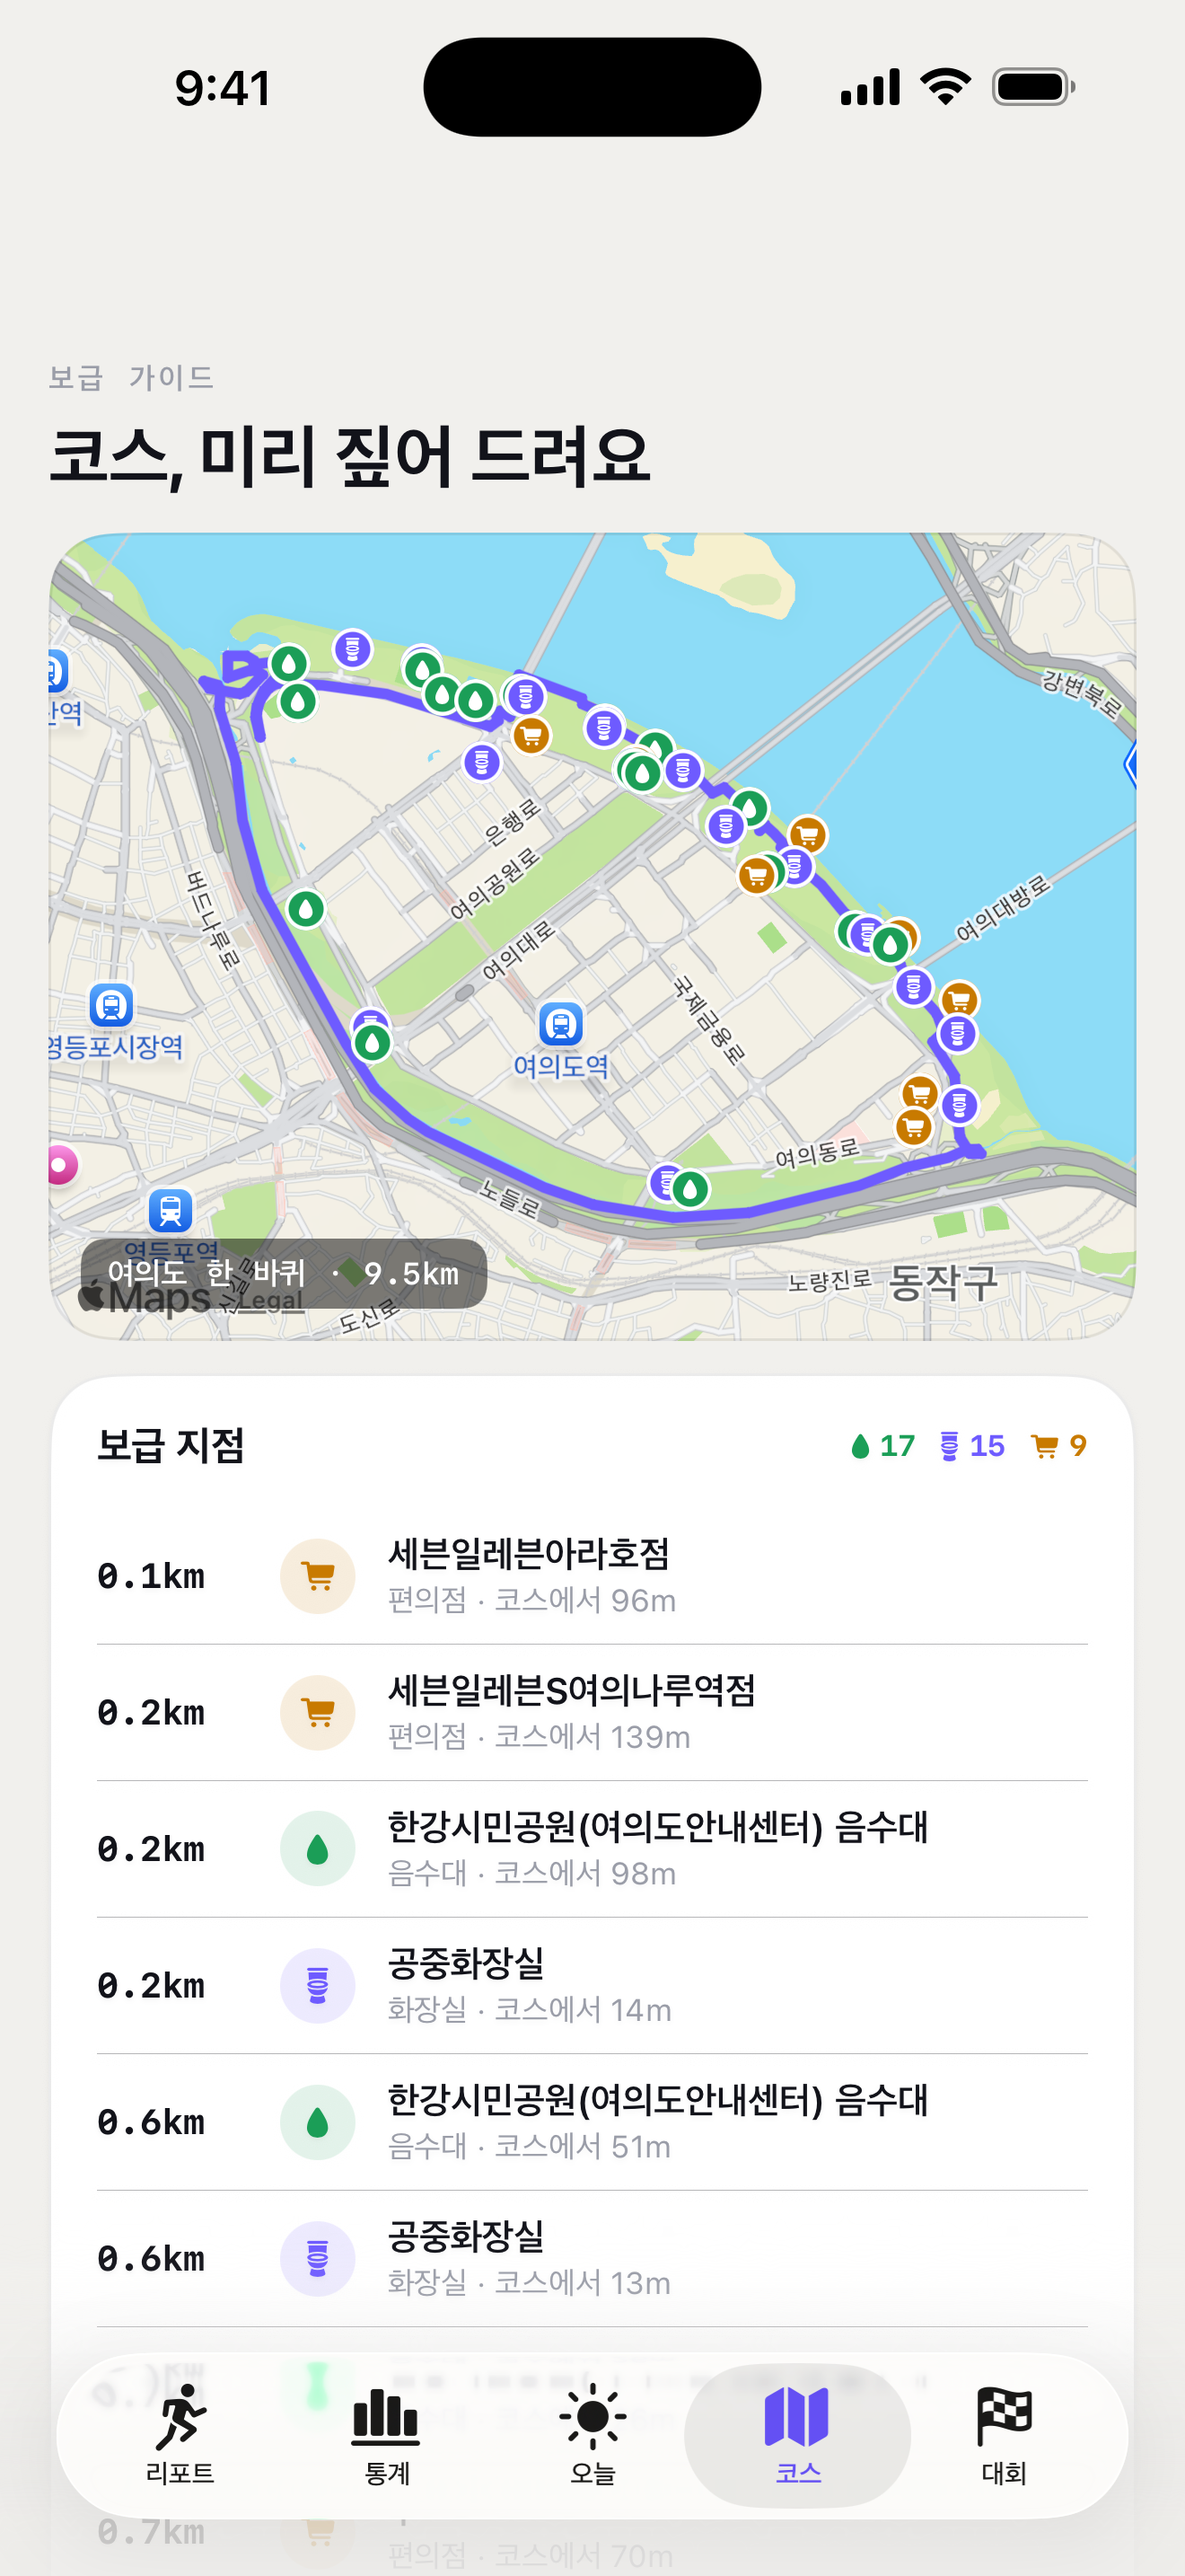
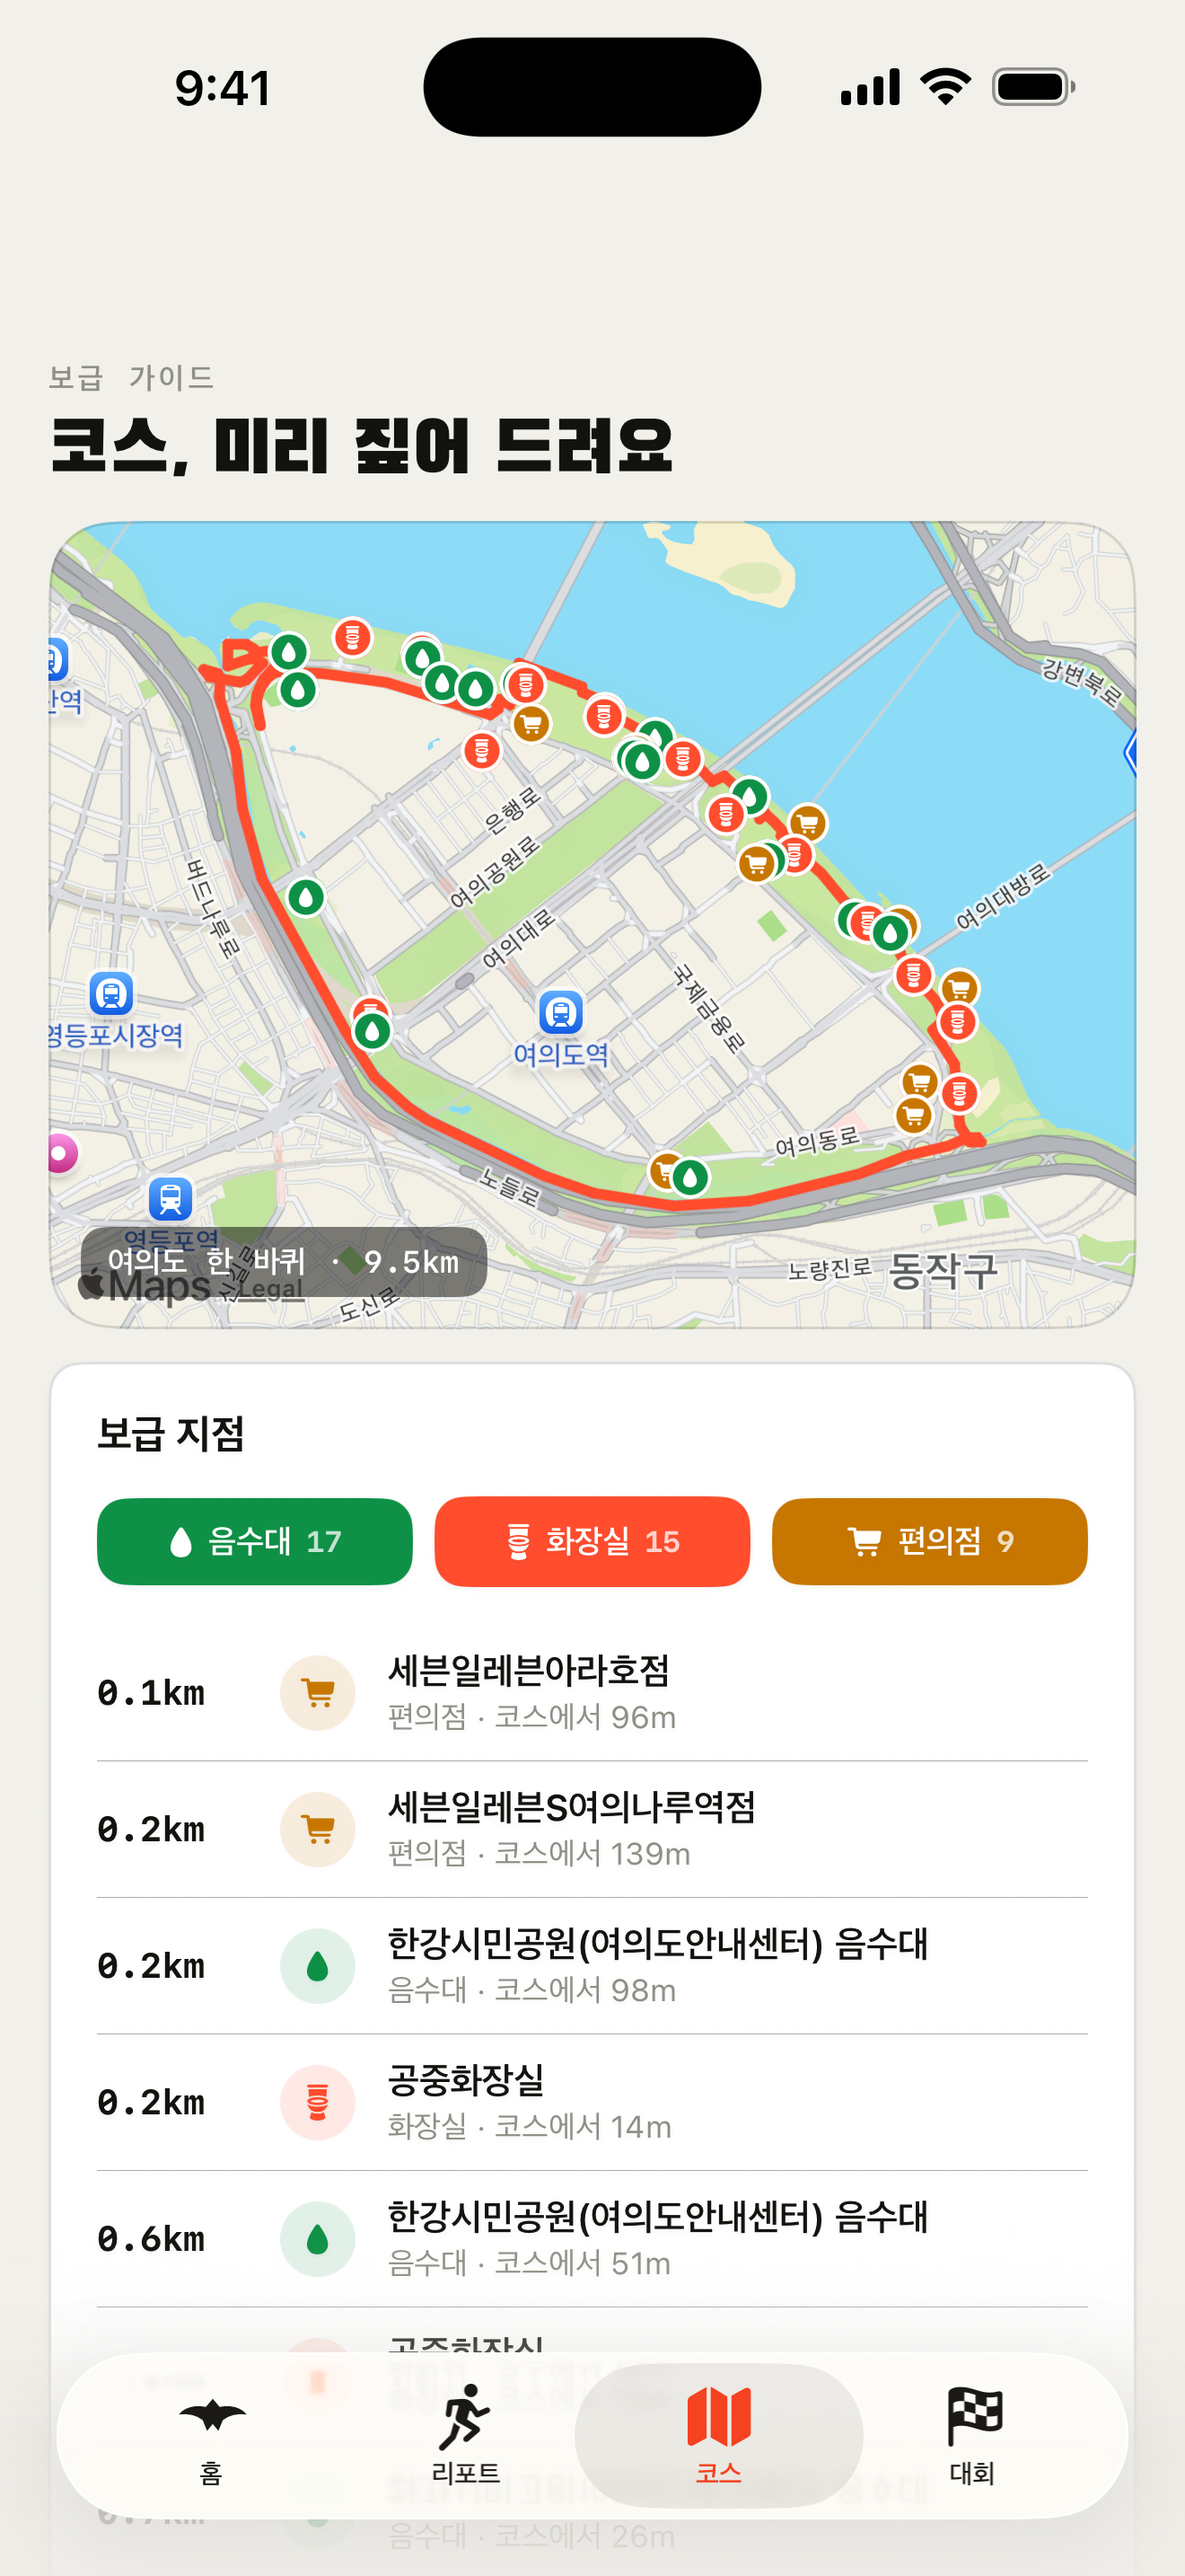
docs: 앱스토어 문안·스크린샷을 현재 앱(홈 탭·성장 시스템)에 맞춰 갱신
- store-listing.md 설명 전면 개편 — "한국어 문장으로" 문구 삭제,
  새 키우기(6단계·도감)를 앞으로, 입문자/대회 준비자 섹션 분리
- 스크린샷 6장 홈 탭 포함으로 교체 (01-home·04-progress 신설)
- 심사 노트·테스트플라이트 안내 갱신

Claude-Session: https://claude.ai/code/session_01WUJ6vARi2CJ3nUcpamzmk2

diff --git a/docs/appstore/testflight-test-info.md b/docs/appstore/testflight-test-info.md
@@ -1,4 +1,4 @@
-# TestFlight 테스트 정보 초안 (런미새 1.0 · 빌드 3)
+# TestFlight 테스트 정보 초안 (런미새 1.0 · 빌드 4)
 
 App Store Connect → TestFlight → **테스트 정보(Test Information)** 에 넣을 내용입니다.
 외부 테스터를 붙이면 이 정보로 **베타 앱 심사**를 받습니다. 내부 테스터(팀원 100명)만
@@ -33,18 +33,20 @@ App Store Connect → TestFlight → **테스트 정보(Test Information)** 에 
 설정(리포트 탭 우측 상단 톱니) → 데모 모드 → "샘플 데이터로 둘러보기"를 켜면
 합성 데이터로 모든 화면을 볼 수 있습니다.
 
-[1. 리포트 탭 — 이번 주 해석]
+[1. 홈 탭 — 오늘 뛸까 말까]
+- 판단 카드 한 줄(예: "가볍게만 다녀오세요")이 오늘 몸 상태와 맞는 말인지
+- 체력 배터리·날씨/복장·오늘 권장 거리가 실제 체감과 맞는지
+  (날씨는 위치 권한 필요, 거절해도 앱은 동작)
+- 마지막 러닝 카드를 탭하면 상세 화면이 제대로 열리는지
+
+[2. 리포트 탭 — 이번 주 해석]
 - 맨 위 한 줄 요약이 내 한 주와 맞는 말인지
 - 주간 거리·부하 비율(ACWR)·심박 효율 카드의 숫자가 워치 기록과 어긋나지 않는지
 - "자세히 보기"로 들어간 상세 화면의 설명이 이해되는지
 
-[2. 통계 탭 — 장기 추이]
+[3. 리포트 탭 → 발전상 — 장기 추이]
 - 월별·주별 추이 차트가 실제 훈련량 흐름과 맞는지
 - 차트의 막대나 포인트를 탭했을 때 값이 제대로 뜨는지
-
-[3. 오늘 탭 — 날씨·복장]
-- 현재 위치 날씨가 맞게 나오는지 (위치 권한 필요, 거절해도 앱은 동작)
-- 추천 복장이 실제 체감과 맞는지
 
 [4. 코스 탭 — 현재 위치·GPX]
 - 탭에 들어가면 현재 위치가 지도에 뜨고, 반경 1km 안의 보급 지점이 가까운 순으로

diff --git a/docs/appstore/review-notes.md b/docs/appstore/review-notes.md
@@ -25,7 +25,8 @@ To turn it on:
   1. Launch the app and complete the two onboarding steps
      ("건강 데이터 연결" -> allow or deny the Health prompt, then choose a
      goal/level and tap "시작하기").
-  2. On the first tab ("리포트"), tap the gear icon at the top right.
+  2. Open the "리포트" tab (2nd of the 4 tabs at the bottom: 홈 / 리포트 /
+     코스 / 대회) and tap the gear icon at the top right.
   3. In Settings, scroll to the "데모 모드" (Demo mode) section and turn on
      "샘플 데이터로 둘러보기" (Browse with sample data).
   4. Go back. Every tab is now populated with ~6 months of synthetic running
@@ -76,8 +77,10 @@ Also reachable inside the app: 리포트 tab -> gear icon -> "개인정보" sect
 
 OTHER PERMISSIONS
 
-- Location (when in use): only to fetch weather for the outfit suggestion on
-  the "오늘" tab. Declining it simply hides the weather card.
+- Location (when in use): to fetch weather for the outfit suggestion on the
+  "홈" tab, and to list nearby water fountains / restrooms / convenience
+  stores on the "코스" tab. Declining it hides those cards; nothing else
+  breaks.
 - Photo library (add only): to save a generated running story card. Optional.
 - Notifications: optional reminders (hydration on hot days, weekly report).
 

diff --git a/README.md b/README.md
@@ -19,7 +19,7 @@
 - `tools/` — 데이터 파이프라인: `race-info`(대회 크롤러) · `course-poi`(급수·화장실·편의점 POI 빌드)
 - `.github/workflows/race-info.yml` — 매일 05:00 KST 대회 정보 크롤 → `ios/RunWrap/Races.json` 갱신
 
-앱은 5개 탭 — **리포트 · 통계 · 오늘 · 코스 · 대회**.
+앱은 4개 탭 — **홈 · 리포트 · 코스 · 대회**. (리포트 탭 안에 `이번 주 / 발전상` 세그먼트)
 
 ## 빌드
 
